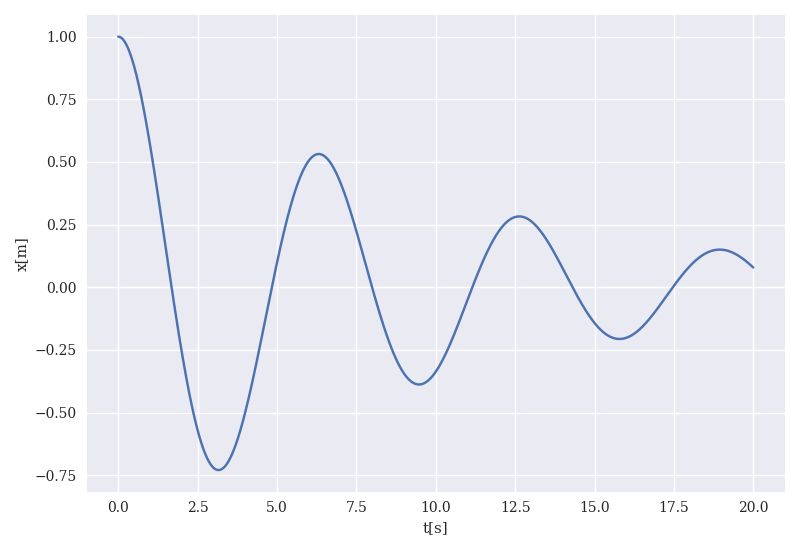
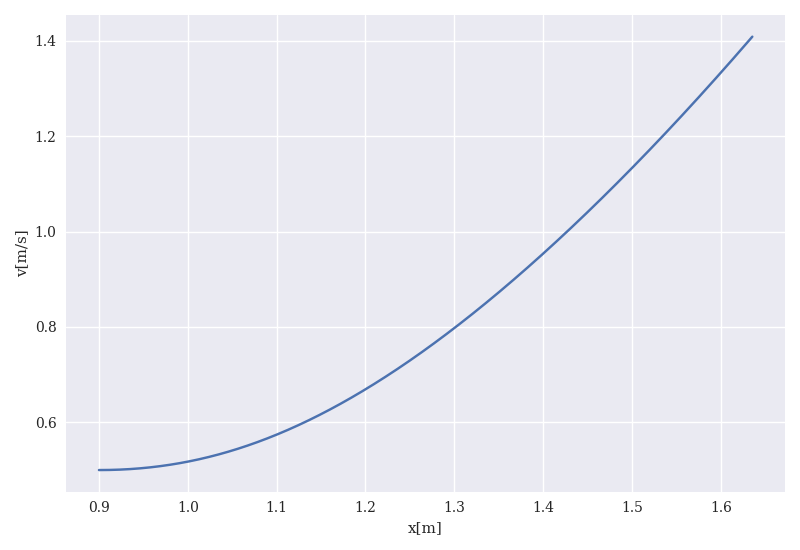
midterm 1

diff --git a/doc/src/harmonic/Programs/BlockEulerCromer.py b/doc/src/harmonic/Programs/BlockEulerCromer.py
@@ -1,4 +1,3 @@
-# Exercise 6, hw3, smarter way with declaration of vx, vy, x and y
 # Common imports
 import numpy as np
 import pandas as pd
@@ -36,33 +35,37 @@ mpl.rcParams['font.family'] = 'serif'
 
 DeltaT = 0.001
 #set up arrays 
-tfinal = 20 # in years
+tfinal = 1.0
 n = ceil(tfinal/DeltaT)
 # set up arrays for t, v, and x
 t = np.zeros(n)
 v = np.zeros(n)
 x = np.zeros(n)
+E = np.zeros(n)
+alpha = 0.81
+beta = 1.0
+mass = 1.0
 # Initial conditions as compact 2-dimensional arrays
-x0 =  1.0 
-v0 = 0.0
+x0 =  sqrt(alpha/beta)
+v0 = 0.5
 x[0] = x0
 v[0] = v0
-gamma = 0.1
+E[0] = 0.5*mass*v0*v0
 # Start integrating using Euler's method
 for i in range(n-1):
-    # Set up the acceleration
-    # Here you could have defined your own function for this
-    a =  -2*gamma*v[i]-x[i]
+    a =  -alpha*x[i]/mass+beta*(x[i]**3)/mass
     # update velocity, time and position using Euler's forward method
     v[i+1] = v[i] + DeltaT*a
     x[i+1] = x[i] + DeltaT*v[i+1]
+#    E[i+1] = 0.5*mass*v[i+1]*v[i+1]+
     t[i+1] = t[i] + DeltaT
 # Plot position as function of time    
 fig, ax = plt.subplots()
 #ax.set_xlim(0, tfinal)
-ax.set_ylabel('x[m]')
-ax.set_xlabel('t[s]')
-ax.plot(t, x)
+ax.set_ylabel('v[m/s]')
+ax.set_xlabel('x[m]')
+#ax.plot(t, x)
+ax.plot(x, v)
 fig.tight_layout()
 save_fig("BlockEulerCromer")
 plt.show()

diff --git a/doc/src/harmonic/Programs/vplot.py b/doc/src/harmonic/Programs/vplot.py
@@ -7,17 +7,17 @@ import matplotlib.pyplot as plt
 
 Deltax = 0.01
 #set up arrays
-xinitial = -5.0
-xfinal = 5.0 
+xinitial = -2.0
+xfinal = 2.0 
 n = ceil((xfinal-xinitial)/Deltax)
 x = np.zeros(n)
 for i in range(n):
     x[i] = xinitial+i*Deltax
 V = np.zeros(n)
 # Initial conditions as compact 2-dimensional arrays
-alpha = 10.0
-beta = 2.0
-
+alpha = 0.81
+beta = 0.5
+print(sqrt(alpha/beta))
 V = -alpha*x*x*0.5 + beta*(x**4)*0.25
 # Plot position as function of time    
 fig, ax = plt.subplots()
